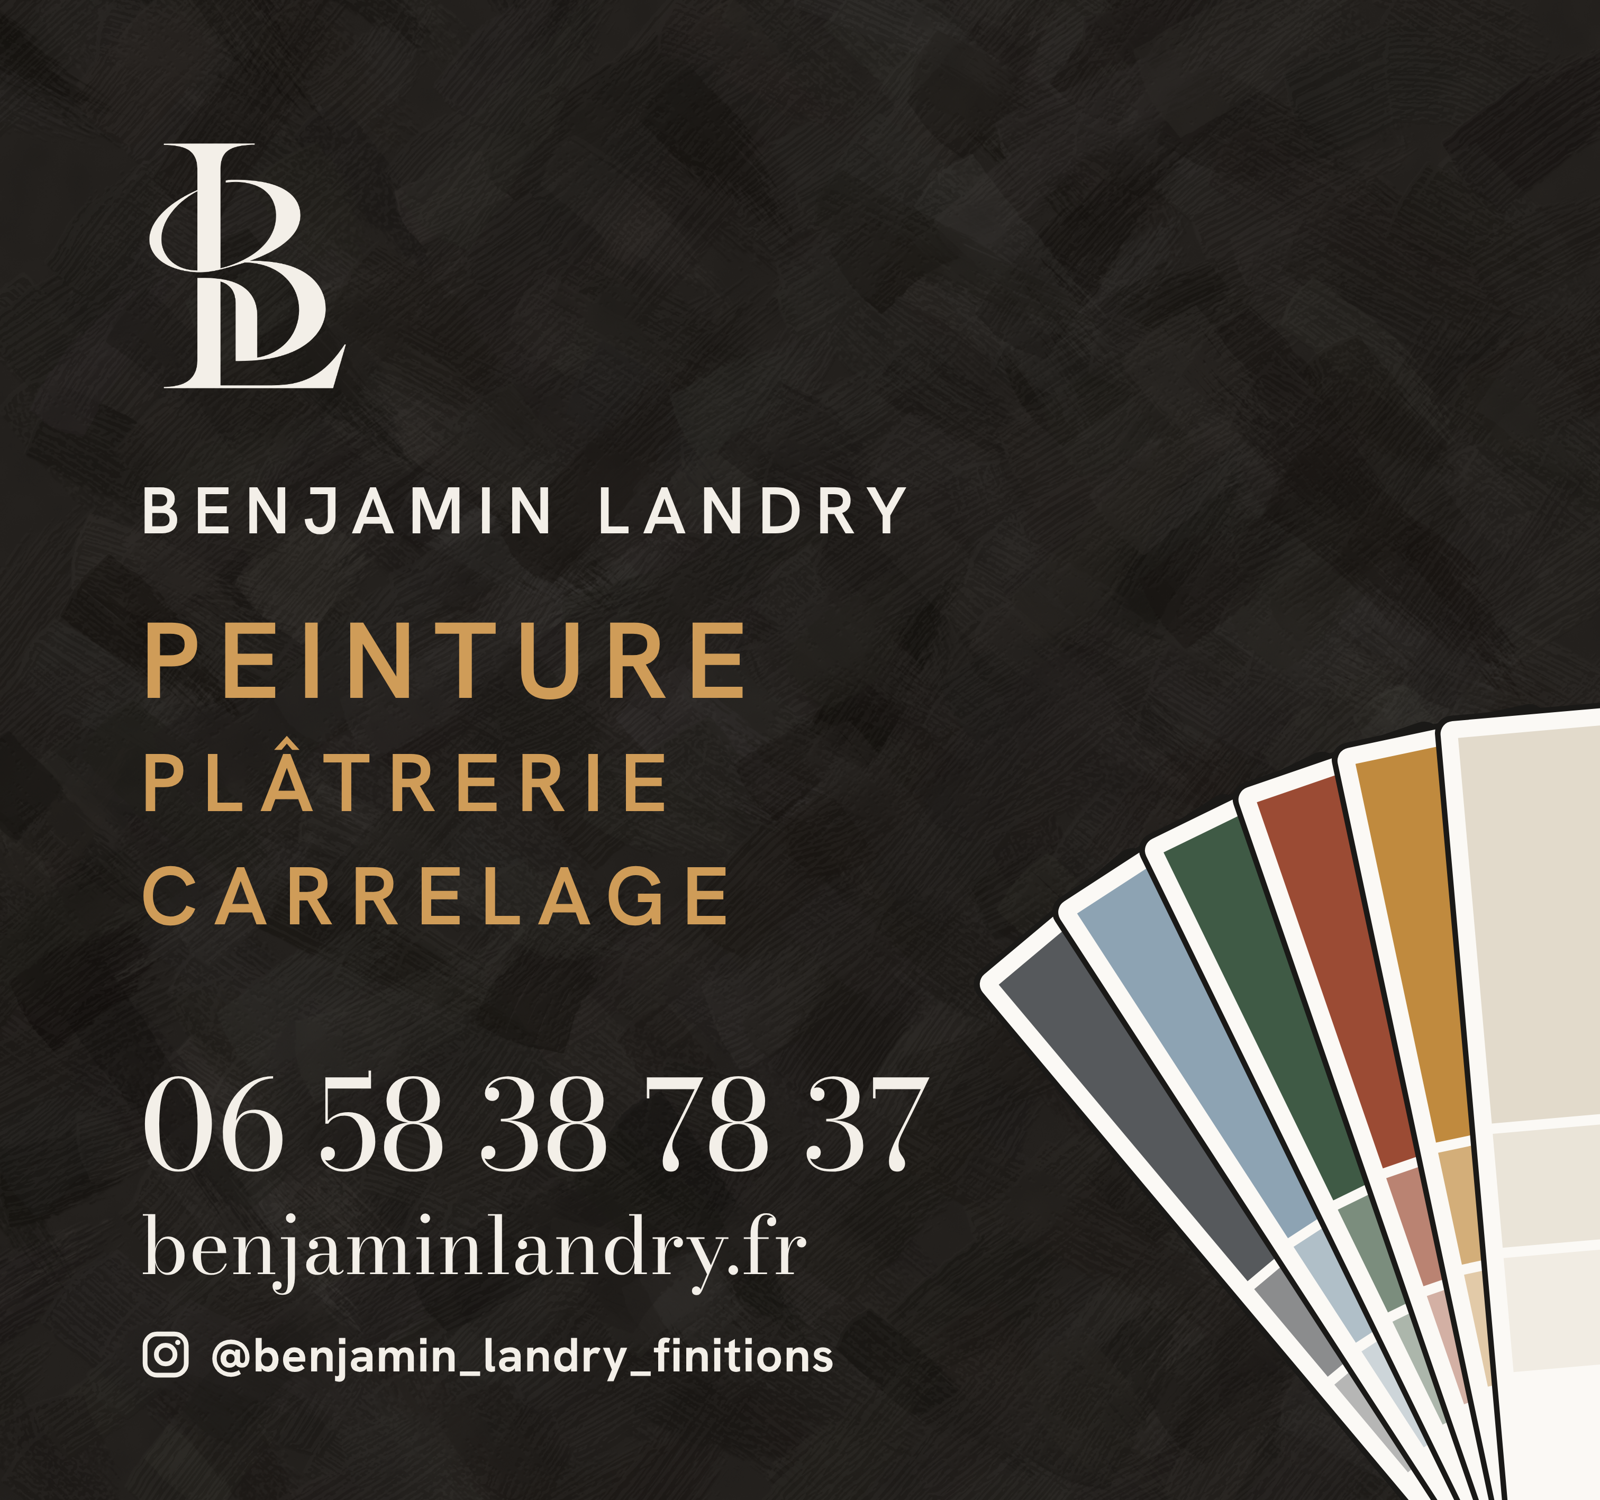
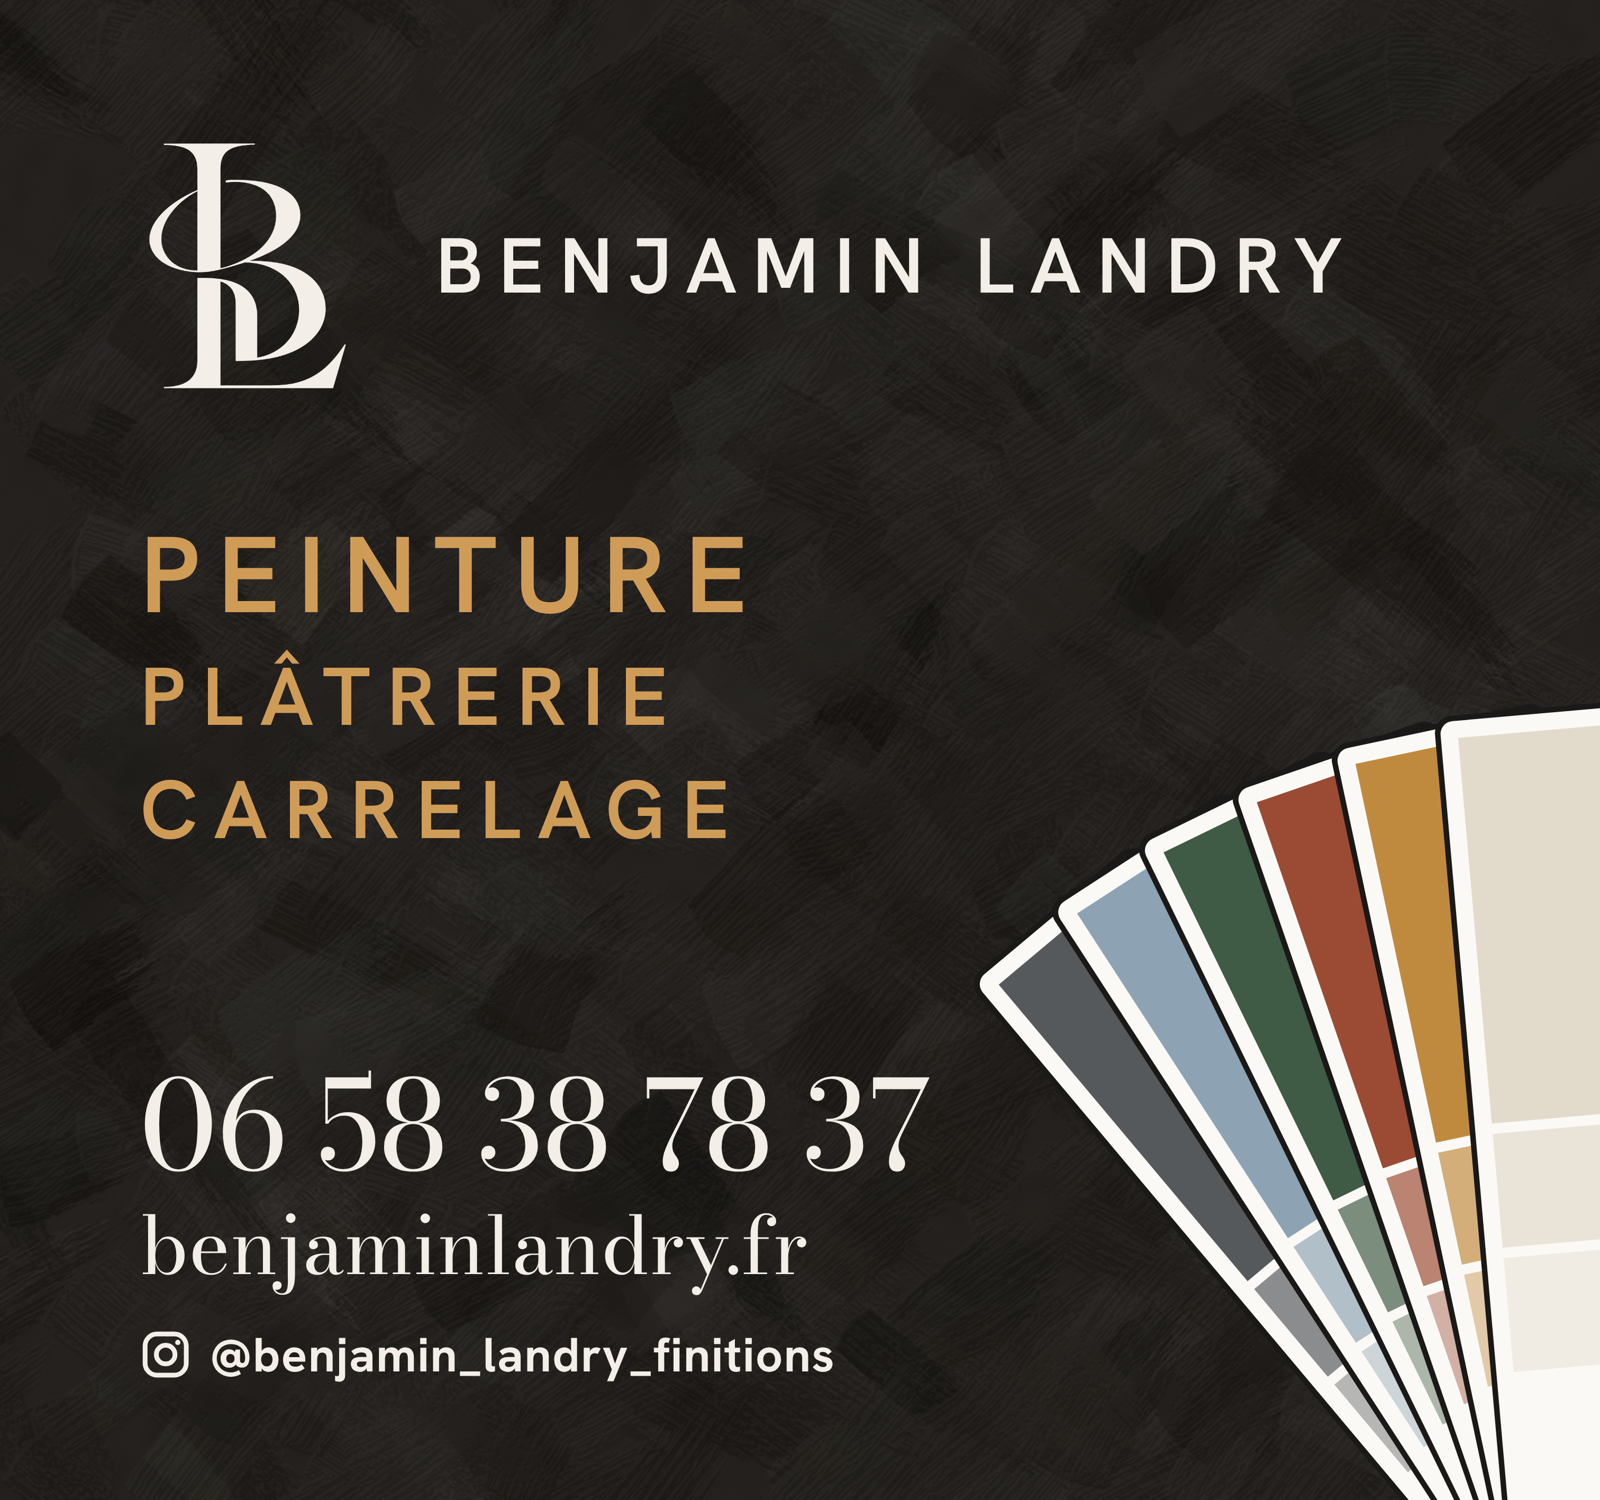
Panneau : nom à droite du monogramme, en plus grand
Claude-Session: https://claude.ai/code/session_015GJSDk6faJDS2EkzTJrATy

Changed region(s): [[0.0938, 0.3067, 0.5625, 0.6133], [0.25, 0.1533, 0.8438, 0.2147]]

diff --git a/blandry-comm/templates/panneau.html b/blandry-comm/templates/panneau.html
@@ -18,8 +18,9 @@
   .pan > * { position: absolute; }
   .mono { display: block; aspect-ratio: 659 / 806; background: url('../photos/logo-bl-lin.png') center / contain no-repeat; }
   .tx { left: 75mm; top: 72mm; }
-  .tx .mono { height: 132mm; margin-bottom: 40mm; }
-  .tx .nom { font-size: 33mm; font-weight: 600; letter-spacing: .2em; text-transform: uppercase; line-height: 1; margin-bottom: 26mm; }
+  .tx .tete { display: flex; align-items: center; gap: 40mm; margin-bottom: 56mm; }
+  .tx .mono { height: 132mm; flex: none; }
+  .tx .nom { font-size: 39mm; font-weight: 600; letter-spacing: .2em; text-transform: uppercase; line-height: 1; white-space: nowrap; }
   .tx .met { font-size: 41mm; font-weight: 600; letter-spacing: .2em; text-transform: uppercase; line-height: 1.38; color: var(--ocre); }
   .tx .met .fort { font-size: 54mm; letter-spacing: .16em; line-height: 1.2; }
   .contact { left: 75mm; bottom: 62mm; }
@@ -34,8 +35,7 @@
 <section class="pan" data-doc="panneau-commerce-80x75cm">
   <svg class="fan" viewBox="0 0 810 760"></svg>
   <div class="tx">
-    <span class="mono"></span>
-    <p class="nom">Benjamin Landry</p>
+    <div class="tete"><span class="mono"></span><p class="nom">Benjamin Landry</p></div>
     <p class="met"><span class="fort">Peinture</span><br>Plâtrerie<br>Carrelage</p>
   </div>
   <div class="contact">
